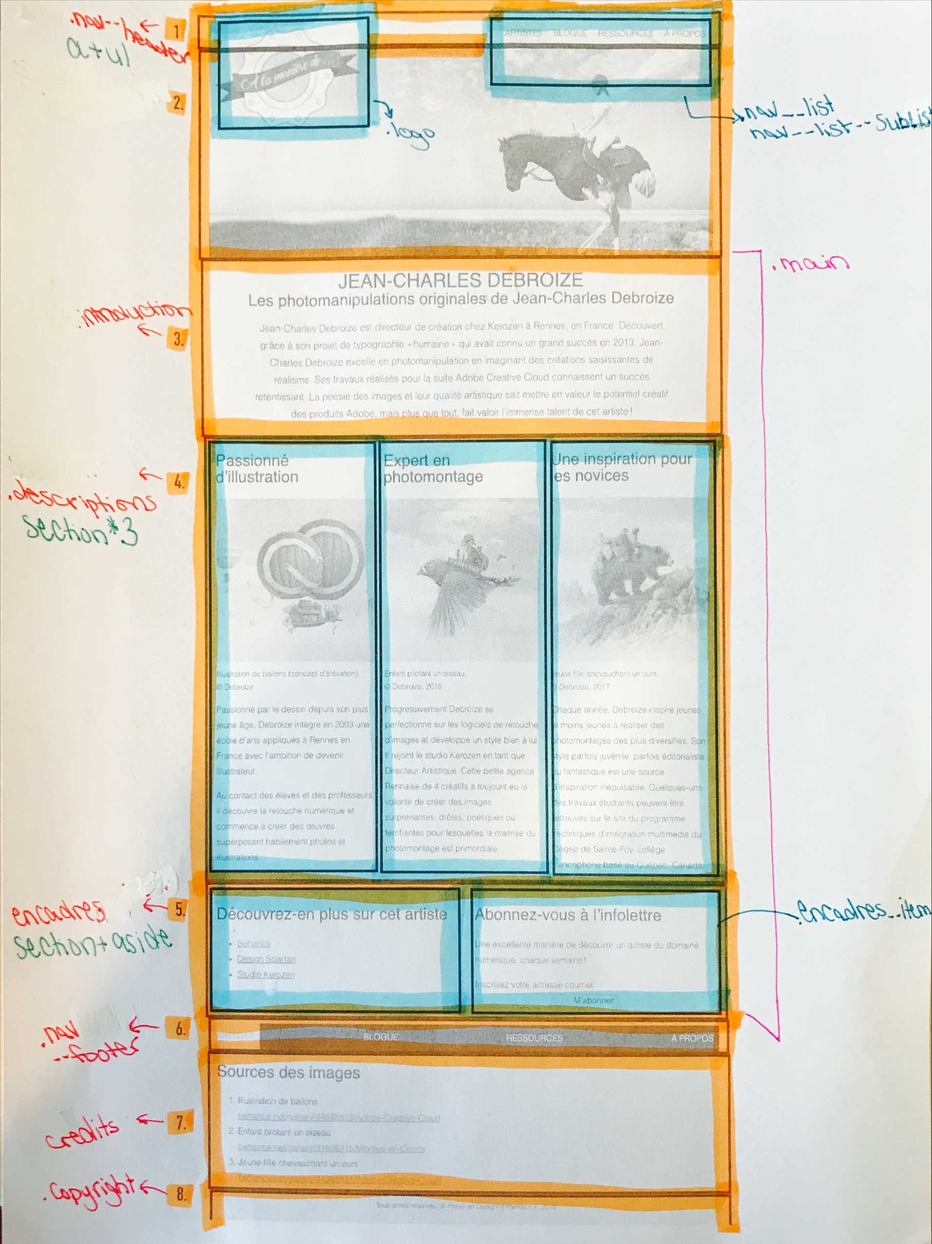
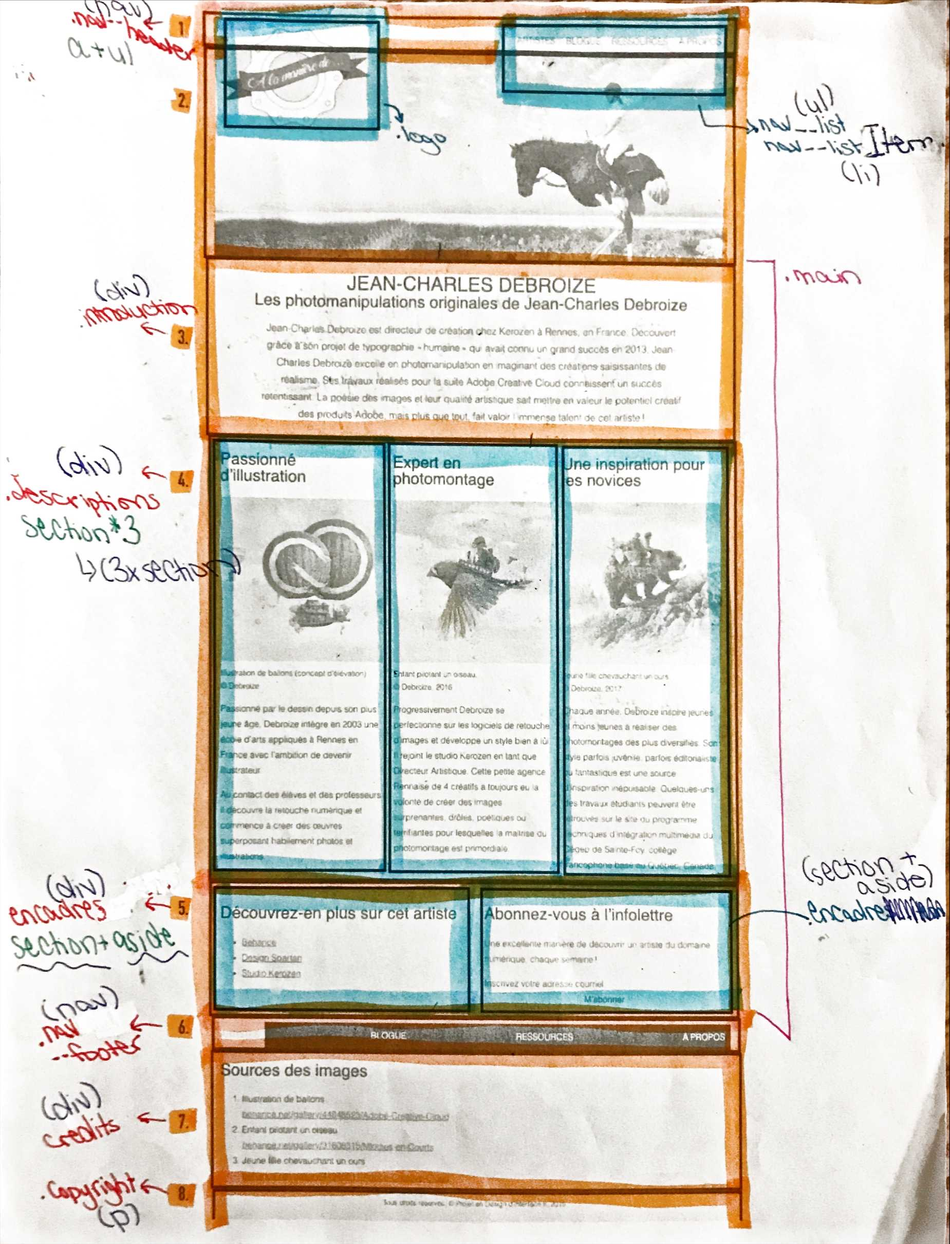
div+modificationImage

diff --git a/index.html b/index.html
@@ -100,6 +100,7 @@
     </nav>
 
         <!-- Rangée 7: les crédits pour les images -->
+        <div class="credits">
         <h2 class="h2">Sources des images</h2>
         <ol class="listeSourcesImages">
             <li>Illustration de ballons<br>
@@ -112,6 +113,7 @@
                 <a href="https://www.behance.net/gaUery/44945511/Adobe-Creative-Cloud">https://www.behance.net/gaUery/44945511/Adobe-Creative-Cloud</a>
             </li>
         </ol>
+    </div>
 
         <!-- Rangée 8: copyright, mention légale-->
         <p class=copyright>
